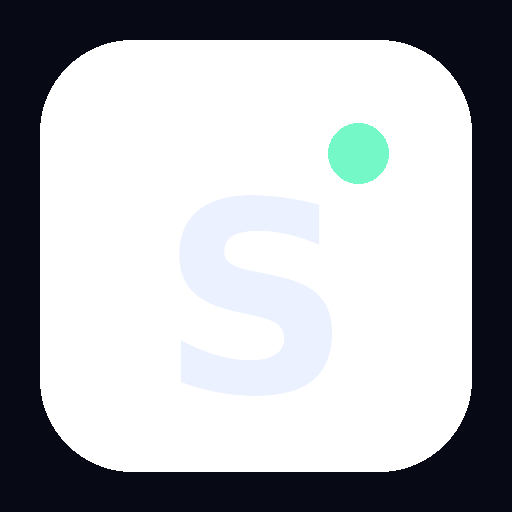
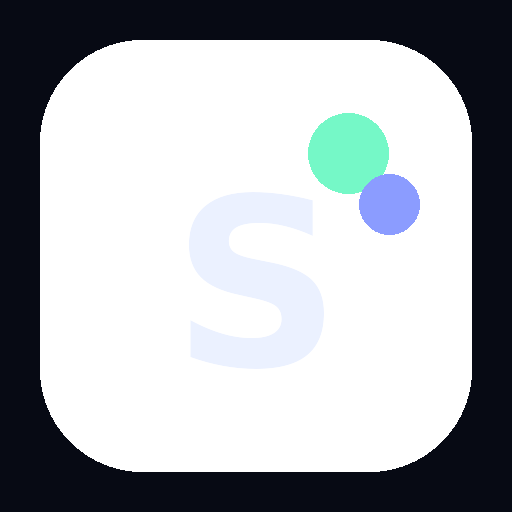
Add files via upload

diff --git a/app.js b/app.js
@@ -1,12 +1,12 @@
 (() => {
-  const PRICE_MIN = 6.0, PRICE_MAX = 30.0, LIMIT = 500.0;
+  const LIMIT = 500.0;
   const CATS = ["ZIGARETTEN","FEINSCHNITT","CONSUMABLES"];
   const $ = (id)=>document.getElementById(id);
 
   const state = { creditRate:0.90, activeCat:"ZIGARETTEN", packages:[], current:null, recognition:null, listening:false };
 
   const euro = (n)=> n.toFixed(2).replace(".",",")+" €";
-  const round10c = (n)=> Math.round(n*10)/10;
+  const round10c = (n)=> n;
 
   const blankPackage = (index)=>({ index, createdAt:new Date().toISOString(), items:{ZIGARETTEN:{},FEINSCHNITT:{},CONSUMABLES:{}}, history:[], closed:false });
 
@@ -157,9 +157,9 @@
     if(pkg.closed){ toast("Aktuelles Paket ist abgeschlossen. Starte ein neues Paket.","warn"); return; }
 
     const p=round10c(price);
-    if(!(p>=PRICE_MIN && p<=PRICE_MAX)){ toast(`Preis außerhalb Bereich (${PRICE_MIN}–${PRICE_MAX} €): ${euro(p)}`,"danger"); return; }
+–${PRICE_MAX} €): ${euro(p)}`,"danger"); return; }
 
-    const key=p.toFixed(1);
+    const key=p.toFixed(2);
     pkg.items[cat] ||= {};
     pkg.items[cat][key] = (pkg.items[cat][key]||0) + 1;
     pkg.history.push({cat, key, ts:Date.now()});
@@ -177,7 +177,7 @@
   function removeOne(price, cat){
     const pkg=state.current;
     if(!pkg || pkg.closed) return;
-    const key=round10c(price).toFixed(1);
+    const key=round10c(price).toFixed(2);
     const map=pkg.items[cat]||{};
     if(!map[key]) return;
     map[key]-=1; if(map[key]<=0) delete map[key];
@@ -354,10 +354,7 @@
 
     $("nextPkgBtn").onclick=()=>{ closeLimitModal(); startNewPackage(); };
     $("endBtn").onclick=()=>{ closeLimitModal(); closeCurrentPackage(); toast("Retoure beendet (Pakete bleiben gespeichert).","ok"); };
-
-    $("exportBtn").onclick=exportCSV;
-
-    $("resetBtn").onclick=()=>{
+$("resetBtn").onclick=()=>{
       if(confirm("Wirklich ALLES löschen? (Pakete + Einstellungen)")){
         localStorage.removeItem("sellence_retouren_assistant_v1");
         state.packages=[]; state.current=blankPackage(1); state.packages.push(state.current);

diff --git a/index.html b/index.html
@@ -14,7 +14,21 @@
   <div class="app">
     <header class="top">
       <div class="brand">
-        <div class="logo">S</div>
+        <div class="logo" aria-label="SELLENCE Logo">
+  <svg viewBox="0 0 64 64" width="28" height="28" role="img" aria-hidden="true">
+    <defs>
+      <linearGradient id="g" x1="0" y1="0" x2="1" y2="1">
+        <stop offset="0" stop-color="rgba(102,247,193,1)"/>
+        <stop offset="1" stop-color="rgba(120,140,255,1)"/>
+      </linearGradient>
+    </defs>
+    <path d="M32 6c12.15 0 22 9.85 22 22 0 12.15-9.85 22-22 22S10 40.15 10 28C10 15.85 19.85 6 32 6Z"
+          fill="url(#g)" opacity="0.22"/>
+    <path d="M44.5 18.5c-3.2-3.2-8.4-3.2-11.6 0l-2.1 2.1-2.1-2.1c-3.2-3.2-8.4-3.2-11.6 0-3.2 3.2-3.2 8.4 0 11.6l2.1 2.1 13.2 13.2 13.2-13.2 2.1-2.1c3.2-3.2 3.2-8.4 0-11.6Z"
+          fill="url(#g)"/>
+    <path d="M20 52h24" stroke="rgba(234,240,255,.75)" stroke-width="3" stroke-linecap="round" opacity="0.55"/>
+  </svg>
+</div>
         <div class="titles">
           <div class="name">SELLENCE-RETOUREN-ASSISTANT</div>
           <div class="sub">Voice-first · iPhone/iPad optimiert · Offline PWA</div>
@@ -72,7 +86,7 @@
               <input id="manualPrice" inputmode="decimal" placeholder="z.B. 8,60" />
               <button id="addManual" class="btn" type="button">Hinzufügen</button>
             </div>
-            <div class="tiny muted">Akzeptiert 6–30€; Cent in 10er-Schritten. Wir runden auf 0,10€.</div>
+            <div class="tiny muted">Cent werden exakt übernommen (bis 2 Nachkommastellen).</div>
           </div>
         </div>
 
@@ -117,8 +131,7 @@
         <div class="row between">
           <div class="h2">Alle Pakete</div>
           <div class="row gap">
-            <button id="exportBtn" class="btn" type="button">Export (CSV)</button>
-            <button id="resetBtn" class="btn danger" type="button">Alles löschen</button>
+<button id="resetBtn" class="btn danger" type="button">Alles löschen</button>
           </div>
         </div>
         <div id="pkgList" class="pkgList"></div>
